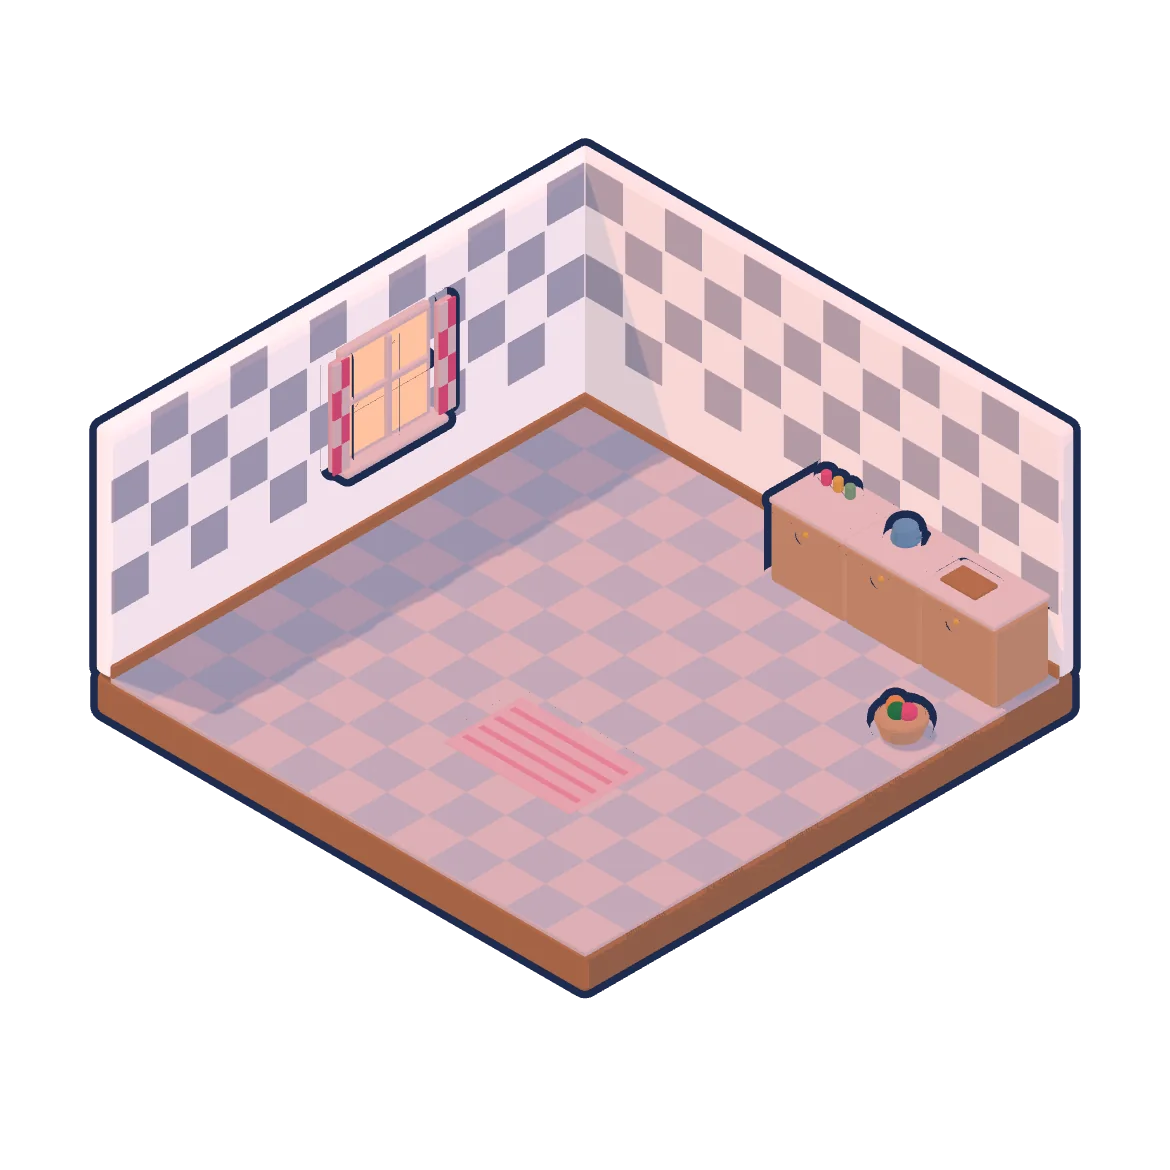
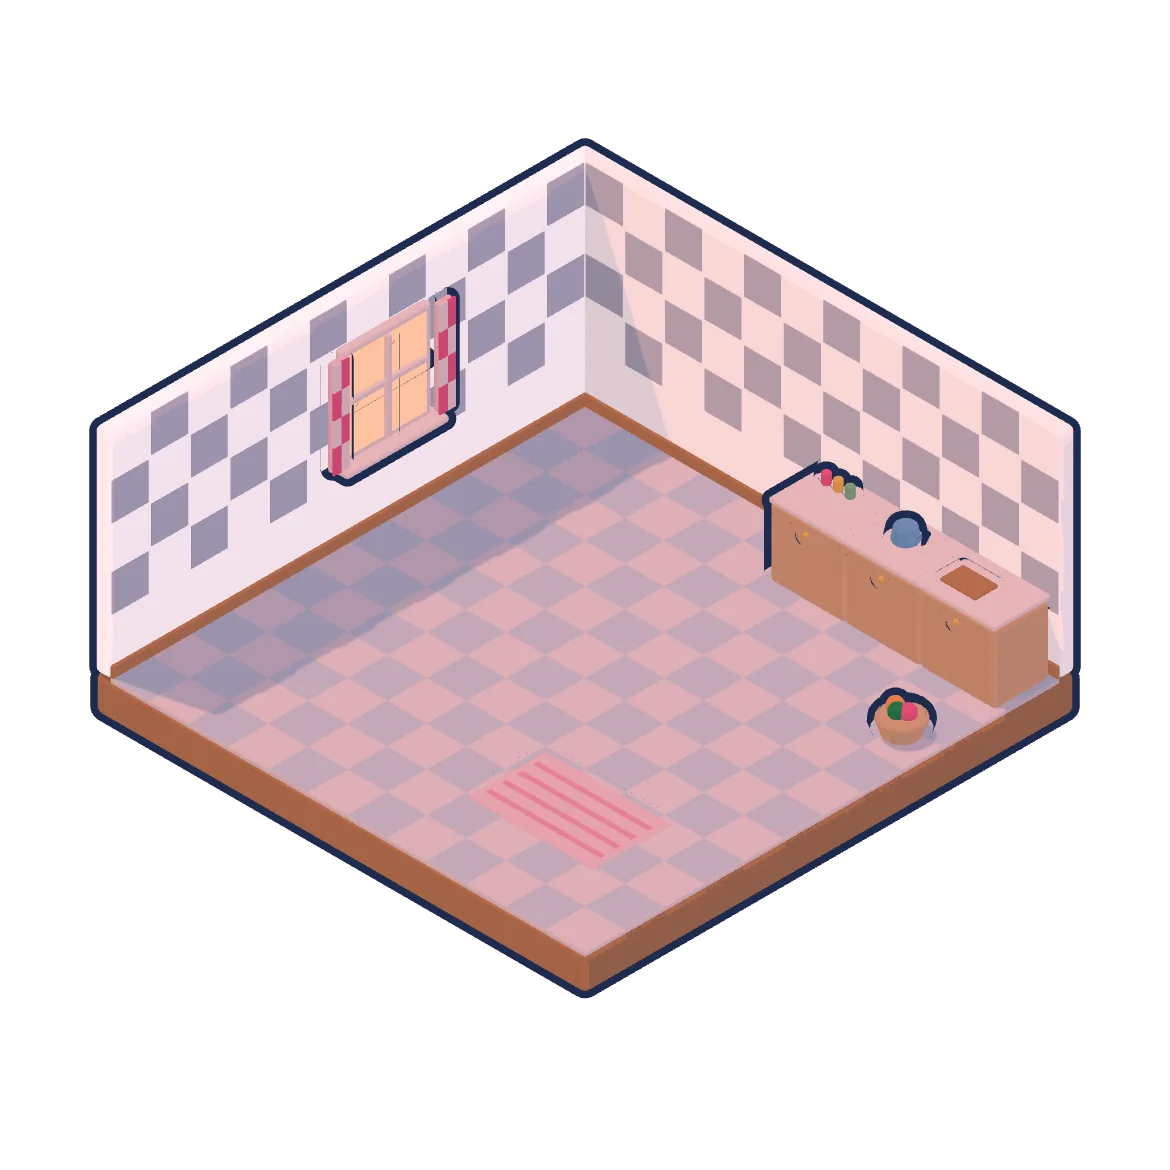
feat(M1): regenerate spacious living and kitchen 3D scene artwork (#61)
* feat(M1): deterministic targeted repack of all living/kitchen WebP sprite states and source metadata

* ci(M1): safely generate, test, and commit spacious room assets only on isolated PR branch

* docs(M1): specify safe four-times-of-day artwork packaging and separate PR verification

* test(M1): verify new jar location, kitchen chair anchors and all regenerated sprite states

* Render(M1): synchronized spacious living/kitchen sprites and scene metadata

* test(M1): safeguard unrelated rooms and all kitchen interactive states after asset repack

---------

Changed region(s): [[0.3692, 0.5846, 0.5538, 0.7385]]

diff --git a/scripts/m1-pack-spacious-scenes.py b/scripts/m1-pack-spacious-scenes.py
@@ -1,0 +1,81 @@
+#!/usr/bin/env python3
+"""Package ONLY Phòng khách and Bếp 3D art; preserve all other scenes/data.
+
+Runs in GitHub Actions on experimental PR branch after rendering the source
+geometry with Three.js. Never contacts Firebase. Fail closed on missing state
+images or unexpected image shapes.
+"""
+import json
+from pathlib import Path
+from PIL import Image
+ROOT=Path(__file__).resolve().parents[1]
+ASSETS=ROOT/'assets/3d'
+INPUT=ROOT/'out_spacious'
+META=INPUT/'meta.json'
+SCENE=ASSETS/'scene.json'
+SIZE=(1170,1170)
+TIMES=('sang','ngay','chieu','dem')
+if not META.is_file() or not SCENE.is_file():
+    raise SystemExit("SPACIOUS_PACK_MISSING_RENDER_META")
+meta=json.loads(META.read_text(encoding='utf-8'))
+scene=json.loads(SCENE.read_text(encoding='utf-8'))
+if 'room' not in scene or 'bep' not in scene.get('rooms',{}):
+    raise SystemExit('SPACIOUS_PACK_MISSING_EXISTING_ROOMS')
+manifest={'protocol':'M1_SPACIOUS_ASSET_REPACK', 'rooms':['phong-khach','bep'],
+          'generated':[], 'preservedOthers':True, 'firebaseWrites':False}
+def load(name):
+    src=INPUT/name
+    if not src.is_file():raise ValueError('SPACIOUS_PACK_MISSING_RENDER '+name)
+    im=Image.open(src).convert('RGBA')
+    if im.size!=SIZE:raise ValueError('SPACIOUS_PACK_INVALID_RENDER_SIZE '+name)
+    return im
+def save(im,name,quality):
+    im.save(ASSETS/name,'WEBP',quality=quality,method=6)
+    manifest['generated'].append(name)
+def cropped(name,quality,alpha_cutoff=0):
+    im=load(name+'@3x.png')
+    if alpha_cutoff:
+        channel=im.getchannel('A').point(lambda x:0 if x<alpha_cutoff else x)
+        im.putalpha(channel)
+    bbox=im.getbbox()
+    if not bbox:raise ValueError('SPACIOUS_PACK_EMPTY_SPRITE '+name)
+    save(im.crop(bbox),name+'.webp',quality)
+    return list(bbox)
+# 1) Four times of day and all living-room interactive states.
+room_meta=meta.get('phong_khach_meta')
+if not isinstance(room_meta,dict):raise ValueError('MISSING_LIVING_META')
+for time in TIMES:
+    save(load(f'phong_khach_{time}@3x.png'),f'phong_khach_{time}.webp',86)
+layers={}
+# Use the pre-existing sprite keys exactly to prevent deleting interaction states.
+for layer_id in scene['room']['layers'].keys():
+    layers[layer_id]=cropped(layer_id,88)
+if set(layers)!=set(scene['room']['layers']):raise ValueError('LIVING_LAYER_DRIFT')
+scene['room']={**scene['room'],**room_meta,'layers':layers}
+# 2) Four times of day and each kitchen item/state, including open/closed and cooking.
+kitchen_meta=meta.get('bep_meta')
+if not isinstance(kitchen_meta,dict):raise ValueError('MISSING_KITCHEN_META')
+for time in TIMES:
+    save(load(f'bep_{time}@3x.png'),f'bep_{time}.webp',84)
+kitchen_layers={}
+old_layers=scene['rooms']['bep']['layers']
+items=scene['rooms']['bep']['items']
+if kitchen_meta.get('items')!=items:
+    raise ValueError('KITCHEN_STATES_CHANGED')
+for item_id,item in items.items():
+    for state in item['st']:
+        key=f'{item_id}_{state}'
+        if key not in old_layers:raise ValueError('KITCHEN_STATE_NOT_IN_OLD_SCENE '+key)
+        kitchen_layers[key]=cropped('bep_'+key,86,10)
+if set(kitchen_layers)!=set(old_layers):raise ValueError('KITCHEN_LAYER_DRIFT')
+scene['rooms']['bep']={**scene['rooms']['bep'],**kitchen_meta,'layers':kitchen_layers}
+if scene['room']['size']!=[1170,1170] or scene['rooms']['bep']['size']!=[1170,1170]:
+    raise ValueError('SCENE_DIMENSIONS_CHANGED')
+SCENE.write_text(json.dumps(scene,ensure_ascii=False,separators=(',',':'))+'\n',encoding='utf-8')
+manifest['livingLayers']=len(layers)
+manifest['kitchenLayers']=len(kitchen_layers)
+manifest['changedFiles']=len(manifest['generated'])+1
+OUT=ROOT/'review-artifacts/house-spacious'
+OUT.mkdir(parents=True,exist_ok=True)
+(OUT/'pack-manifest.json').write_text(json.dumps(manifest,ensure_ascii=False,indent=2)+'\n',encoding='utf-8')
+print('SPACIOUS_PACK_SUCCESS',json.dumps({k:manifest[k] for k in ['livingLayers','kitchenLayers','changedFiles']}))

diff --git a/docs/M1-SPACIOUS-SCENE-ASSET-ROLL-OUT.md b/docs/M1-SPACIOUS-SCENE-ASSET-ROLL-OUT.md
@@ -1,0 +1,23 @@
+# M1 — Áp dụng bản thiết kế 3D Phòng khách và Bếp vào bản thử
+
+## Xuất phát
+- Source pilot PR #60 đã duyệt bằng hai ảnh before/after và được squash-merge vào PR #9 ở `c8d3f8209c449eeb7ca93ea626d0e5c56d4eb341`.
+- Đây là PR **đóng gói** toàn bộ asset mới cho hai phòng trong nhánh thử nghiệm `feature/spacious-house-weather-botany`, không thay đổi `main` hay Firebase.
+- Đừng chỉnh `scene.json` bằng tay rồi dùng ảnh cũ: chân ghế/nhân vật và sprite cropping sẽ sai.
+
+## Thực thi
+1. `scripts/m1-pack-spacious-scenes.py`: đọc dữ liệu từ render nguồn 3D `_xuong-3d/room.js` và `_xuong-3d/rooms2.js`, tải metadata gốc + những ảnh nguyên khung 1170×1170 trong `out_spacious`.
+2. Đóng gói **đủ 4 thời gian sáng/ngày/chiều/đêm** cho Phòng khách và Bếp.
+3. Cắt lại theo alpha và lưu chính xác tất cả trạng thái tương tác:
+   - Phòng khách: 12 lớp, gồm sofa, radio bật/tắt, lọ với các trạng thái, ảnh/bảng/lịch, cửa sổ mưa.
+   - Bếp: 6 lớp, gồm tủ lạnh đóng/mở, bếp nấu tắt/nấu, bàn ăn trống/bày món.
+4. Cập nhật đồng thời `scene.room` và `scene.rooms.bep` từ metadata render: mọi toạ độ `layers`, các điểm `spots.ghe` mới. Các phòng và phần `scene.json` khác giữ nguyên.
+5. Chạy unit, browser và Firebase Emulator trên **những file đã đóng gói mới** trong CI, không phải bản ảnh cũ.
+6. GitHub Actions chỉ commit WebP/scene đã kiểm thử vào **nhánh PR đóng gói**; `main` và PR #9 không bị ghi tự động. Bot push bằng `GITHUB_TOKEN` có thể không kích hoạt CI mới, vì vậy cần tạo một commit tài liệu nhỏ để khởi chạy lại CI trên HEAD chứa asset thật.
+7. Đọc ảnh so sánh và manifest CI. Chỉ squash-merge PR vào nhánh thử nghiệm PR #9 sau khi CI trên HEAD có binary assets đạt và các tương tác trên điện thoại đạt.
+
+## Cổng an toàn và tiêu chí
+- Xác nhận chỉ **Phòng khách và Bếp** thay đổi: tất cả các phòng khác, Khu vườn, dữ liệu và Firestore Rules không thay đổi.
+- Thể hiện khoảng sàn ở giữa thoáng hơn nhưng không có vật nổi, chồng tường, cắt mép, hoặc nhân vật ngồi sai ghế. Giữ đủ states, ảnh ngày/đêm, các hotspot tương tác.
+- PR không hề bật tính năng đặt nội thất tự do. Bản alpha và floor-contact đã thực hiện vẫn là `UNAPPROVED`; không suy ra vùng sàn trang trí đã duyệt.
+- Trước khi cho phép phát hành từ PR #9 lên main: phải hoàn tất M0 staging backup/restore, kiểm tra deployed Rules/Auth/App Check/IAM và rollback cho dữ liệu cặp đôi.
